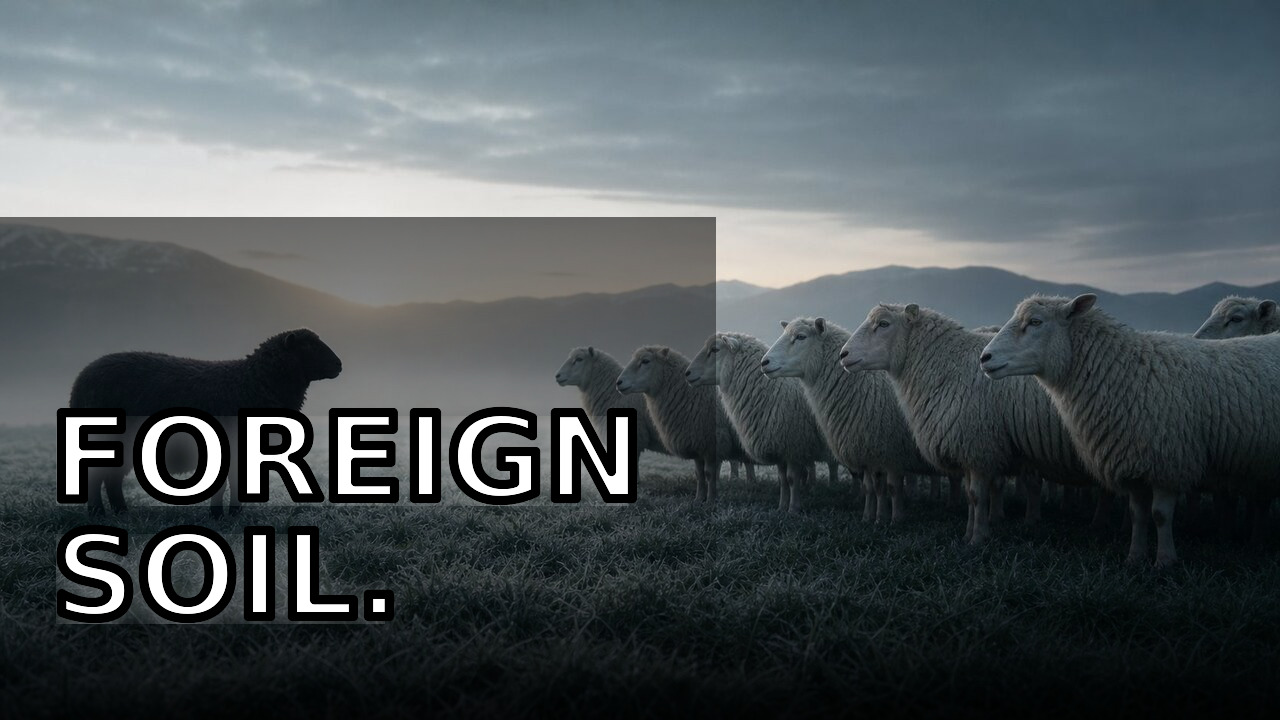
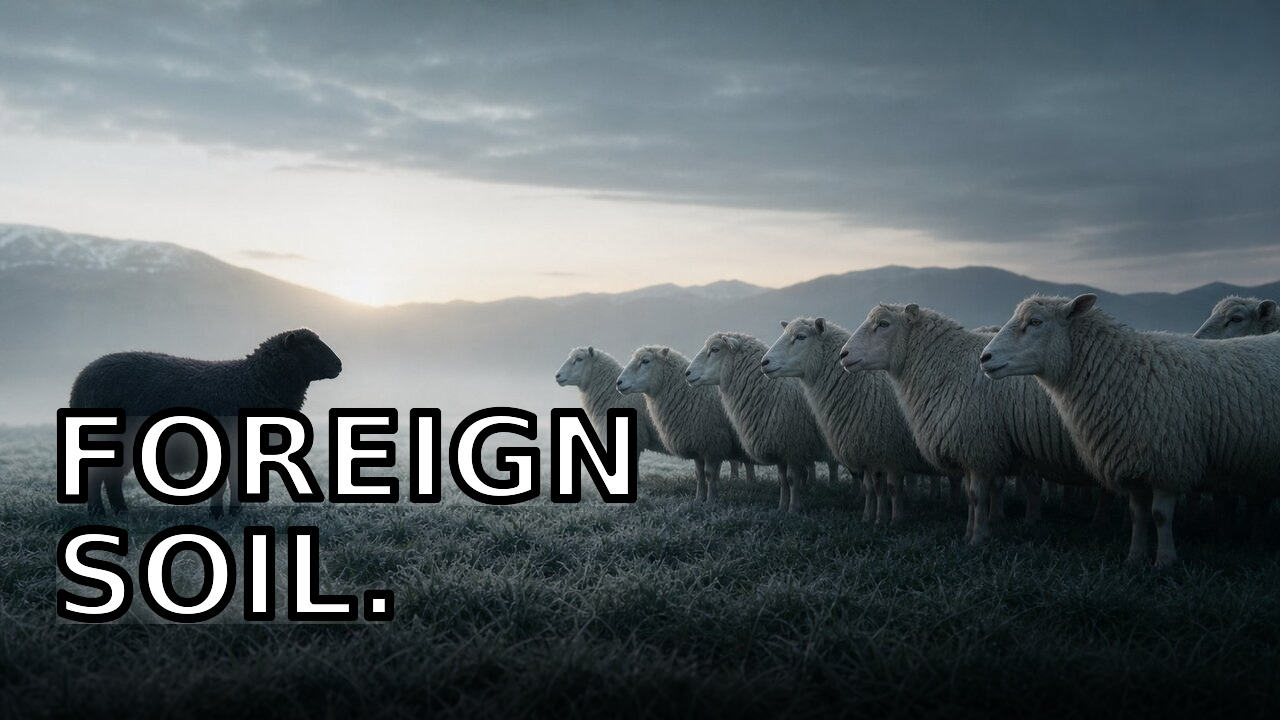
v18 thumb: drop SW black rectangle, soft south fade only

Changed region(s): [[0.0, 0.275, 0.5625, 0.7944], [0.375, 0.7944, 0.4062, 0.825], [0.0938, 0.6722, 0.125, 0.7028]]

diff --git a/vault/tools/render_thumb.py b/vault/tools/render_thumb.py
@@ -45,11 +45,12 @@ Y1 = Y2 + h2 + GAP
 # scrim
 W = int(subprocess.check_output(["identify", "-format", "%w", BASE]).decode())
 H = int(subprocess.check_output(["identify", "-format", "%h", BASE]).decode())
+# Full-width soft south fade only — no rectangular SW panel (that read as a
+# transparent black square behind the type).
 run(["magick", BASE,
-     "(", "-size", f"{W}x{int(H*0.44)}", "gradient:rgba(0,0,0,0.88)-rgba(0,0,0,0)", "-flip", ")",
+     "(", "-size", f"{W}x{int(H*0.42)}",
+     "gradient:rgba(0,0,0,0.78)-rgba(0,0,0,0)", "-flip", ")",
      "-gravity", "South", "-composite",
-     "(", "-size", f"{int(W*0.56)}x{int(H*0.7)}", "gradient:rgba(0,0,0,0.55)-rgba(0,0,0,0)", ")",
-     "-gravity", "SouthWest", "-composite",
      f"{TH}/scrim.png"])
 
 # sequential composites: geometry as operator setting, one overlay at a time
